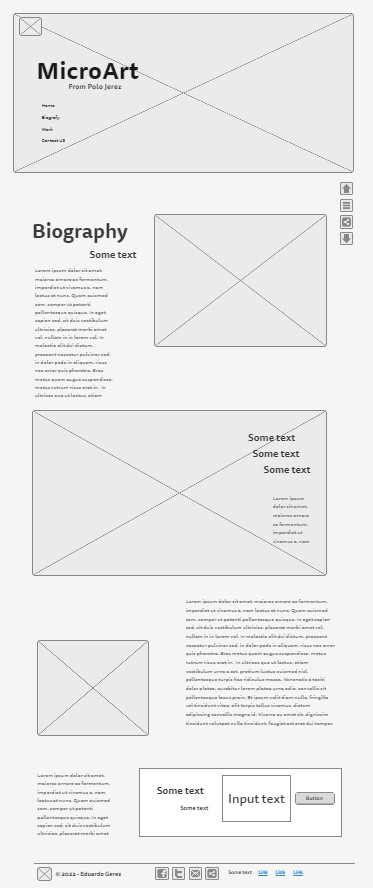
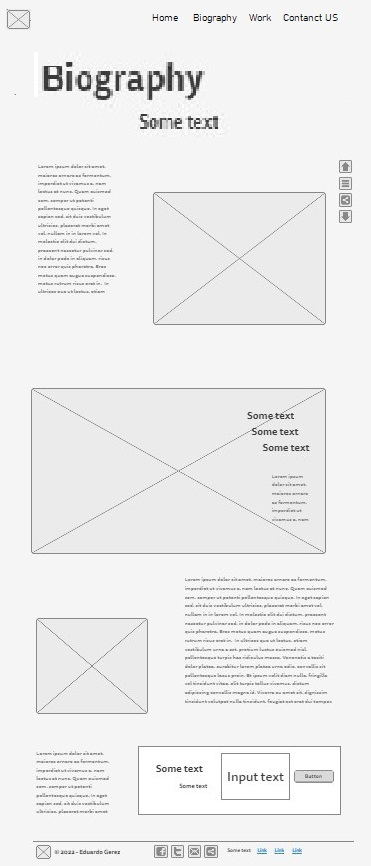
comiit  htrml

diff --git a/microart/work.html b/microart/work.html
@@ -15,20 +15,18 @@
       <img class="logo" src="images/logo2.png" alt="Microart Logo">
     </a>
        <section id="title">
-         <h1 class="home-title">MicroArt</h1>
+         <h3 class="home-title">MicroArt</h3>
          <h4 class="sub-title">From Polo Jerez</h4>
        </section>
-          <nav>
-            <ul>
-              <li><a href="index.html">Home</a></li>
-              <li><a href="biography.html">Biography</a></li>
-              <li><a href="work.html">Work</a></li>
-              <li><a href="contact_us.html">Contact Us</a></li>
-            </ul>
-          </nav>
-    <div id="image_nav">
-        <img src="images/camels.JPG" alt="camels_interactive">
-    </div>
+       <nav>
+             
+        <a href="index.html">Home</a>
+        <a href="biography.html">Biography</a>
+        <a href="work.html">Work</a>
+        <a href="contact_us.html">Contact Us</a>
+
+      </nav>
+   
  </div>
 </header>    
 <main class="main-grid-3">
@@ -41,7 +39,7 @@
     </aside>
     <section class="work-sect-1">
         <h5>About</h5>
-        <h2>Work</h2>
+        <h1>Work</h1>
        <div class="work-img-1">
          <img src="images/comparition.PNG" alt="">
        </div>

diff --git a/microart/biography.html b/microart/biography.html
@@ -10,25 +10,23 @@
 <body>
 <div id="Content">
 <header>
- <div id="nav_grid">
+  <div id="nav_grid">
     <a id="link_logo" href="index.html">
       <img class="logo" src="images/logo2.png" alt="Microart Logo">
     </a>
        <section id="title">
-         <h1 class="home-title">MicroArt</h1>
+         <h3 class="home-title">MicroArt</h3>
          <h4 class="sub-title">From Polo Jerez</h4>
        </section>
-          <nav>
-            <ul>
-              <li><a href="index.html">Home</a></li>
-              <li><a href="biography.html">Biography</a></li>
-              <li><a href="work.html">Work</a></li>
-              <li><a href="contact_us.html">Contact Us</a></li>
-            </ul>
-          </nav>
-    <div id="image_nav">
-        <img src="images/camels.JPG" alt="camels_interactive">
-    </div>
+       <nav>
+             
+        <a href="index.html">Home</a>
+        <a href="biography.html">Biography</a>
+        <a href="work.html">Work</a>
+        <a href="contact_us.html">Contact Us</a>
+
+      </nav>
+   
  </div>
 </header>    
 <main class="main-grid-2">

diff --git a/microart/index.html b/microart/index.html
@@ -19,14 +19,14 @@
          <h4 class="sub-title">From Polo Jerez</h4>
        </section>
             <nav>
-             <ul>
-              <li><a href="index.html">Home</a></li>
-              <li><a href="biography.html">Biography</a></li>
-              <li><a href="work.html">Work</a></li>
-              <li><a href="contact_us.html">Contact Us</a></li>
-             </ul>
+             
+              <a href="index.html">Home</a>
+              <a href="biography.html">Biography</a>
+              <a href="work.html">Work</a>
+              <a href="contact_us.html">Contact Us</a>
+
             </nav>
-      <div id="image_nav">
+      <div id="image_hero">
         <img src="images/camels.JPG" alt="camels_interactive">
       </div>
  </div>
